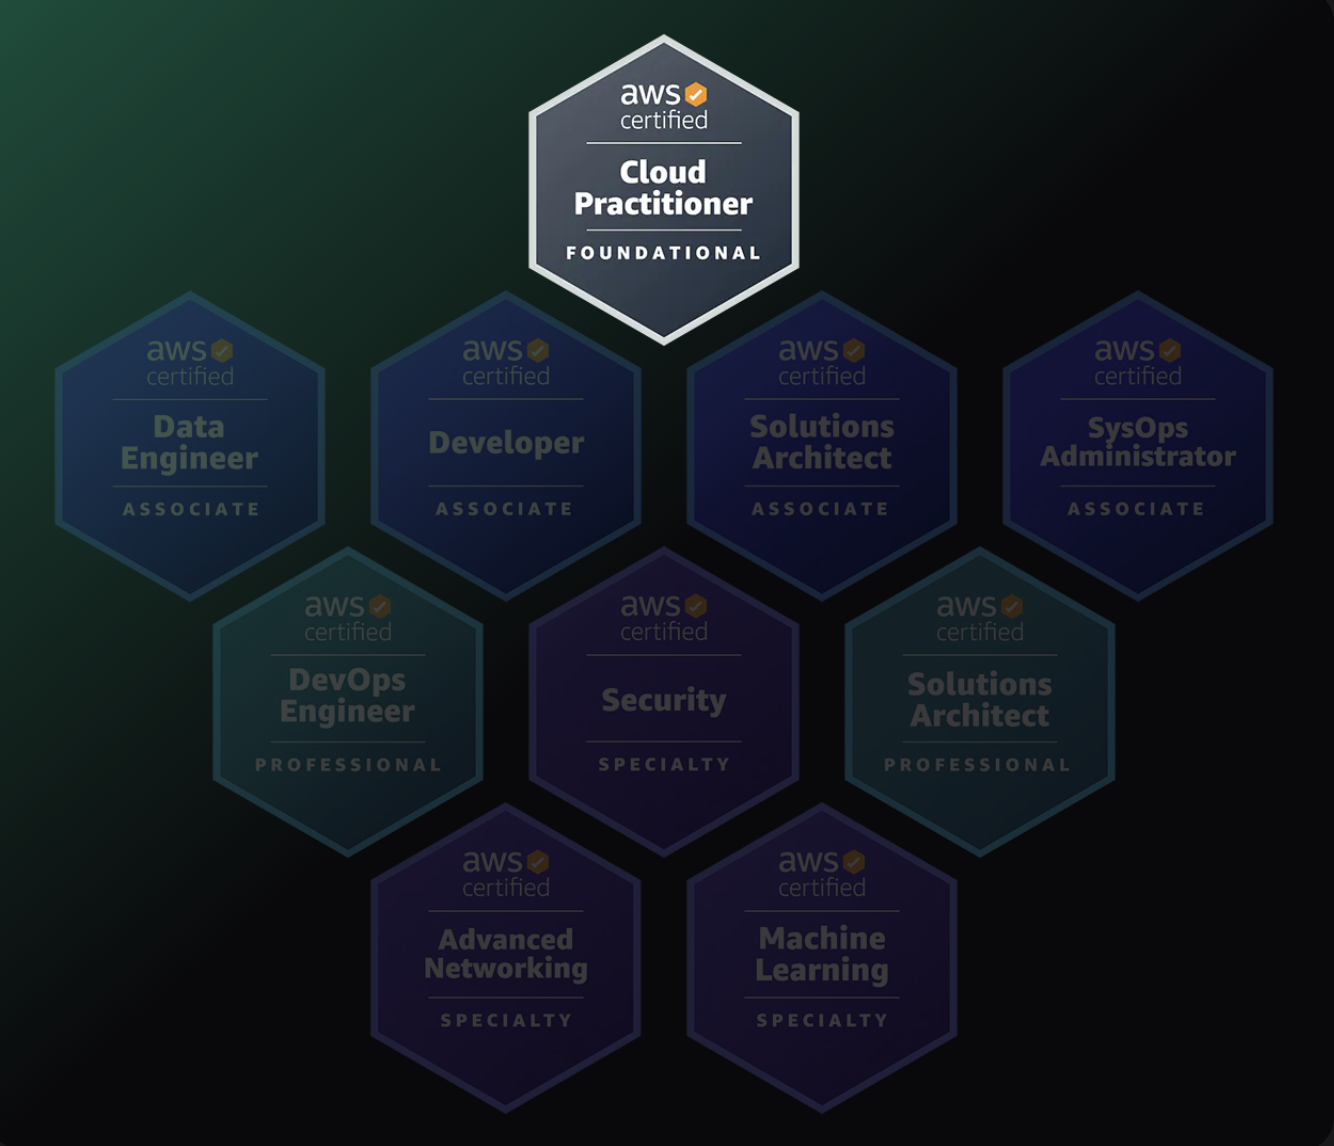
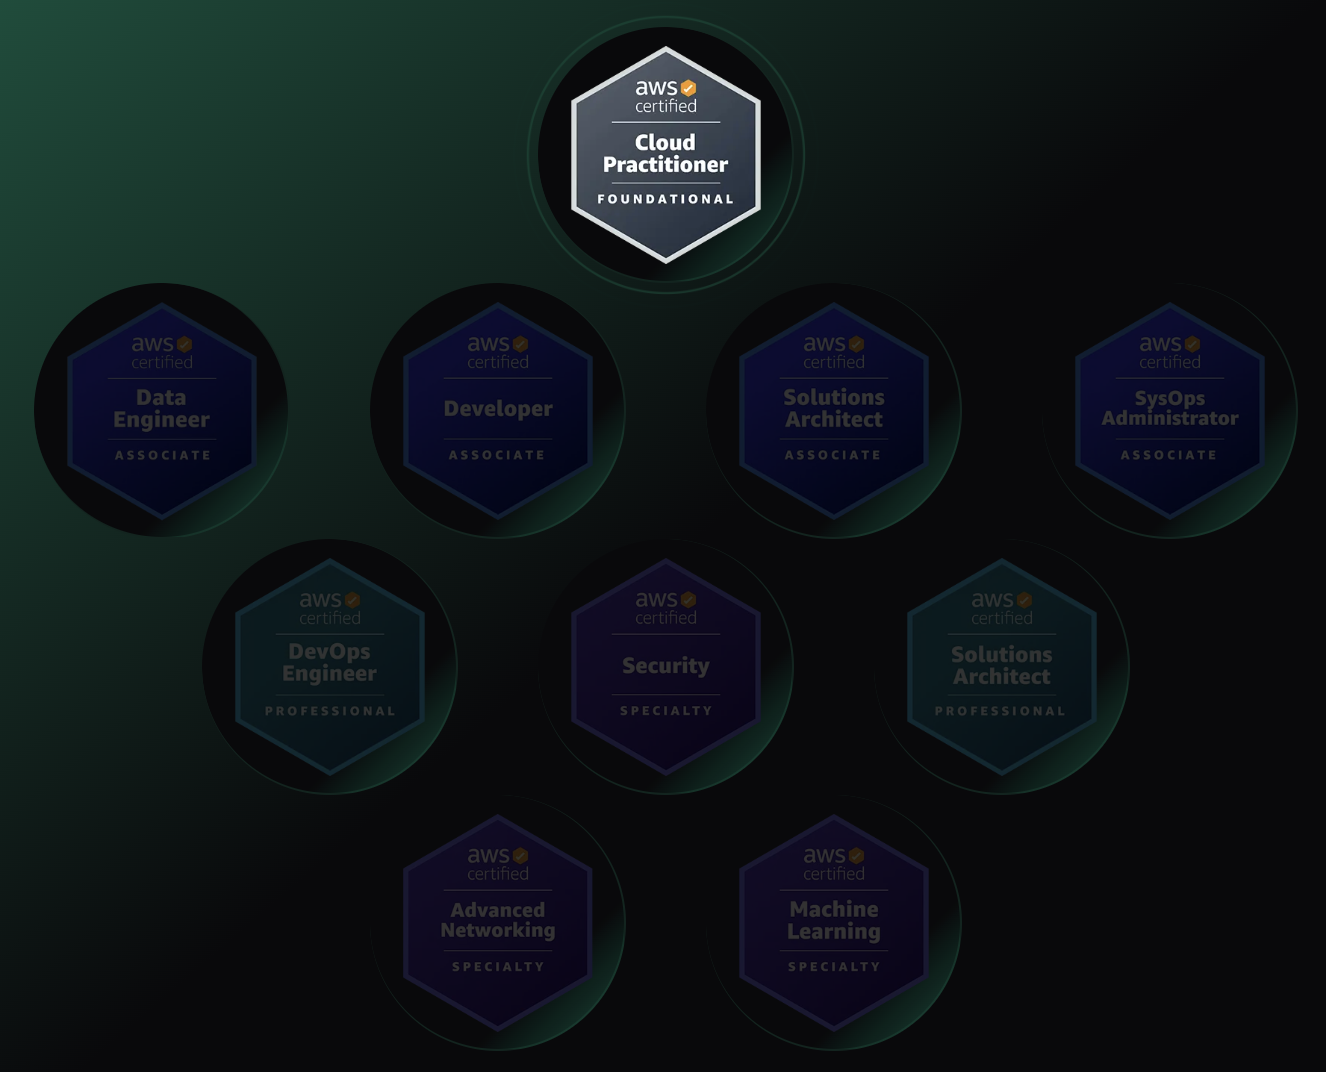
add dimensions

Changed region(s): [[0.0, 0.0, 0.9894, 0.9851], [0.2164, 0.708, 0.2474, 0.7388]]

diff --git a/src/components/AWSCertifications/index.tsx b/src/components/AWSCertifications/index.tsx
@@ -96,7 +96,7 @@ export const AWSCertifications = ({
 }) => {
   return (
     <div className="relative isolate">
-      <div className="relative grid grid-cols-8 gap-x-4 rounded-2xl bg-zinc-950 bg-gradient-to-tl from-transparent via-transparent to-emerald-900 px-5 pb-12 pt-5">
+      <div className="relative grid grid-cols-8 gap-x-10 rounded-2xl bg-zinc-950 bg-gradient-to-tl from-transparent via-transparent to-emerald-900 px-5 pb-12 pt-5">
         {ROWS.map((row) => (
           <div key={row.id} className={clsx(row.className, 'relative')}>
             <div className="relative">
